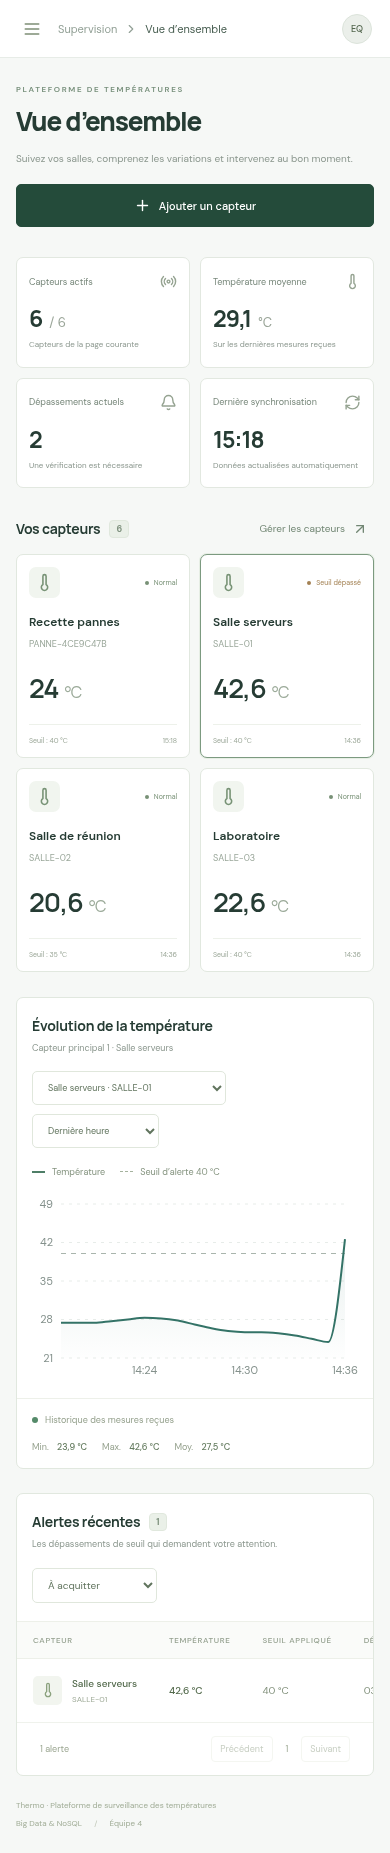
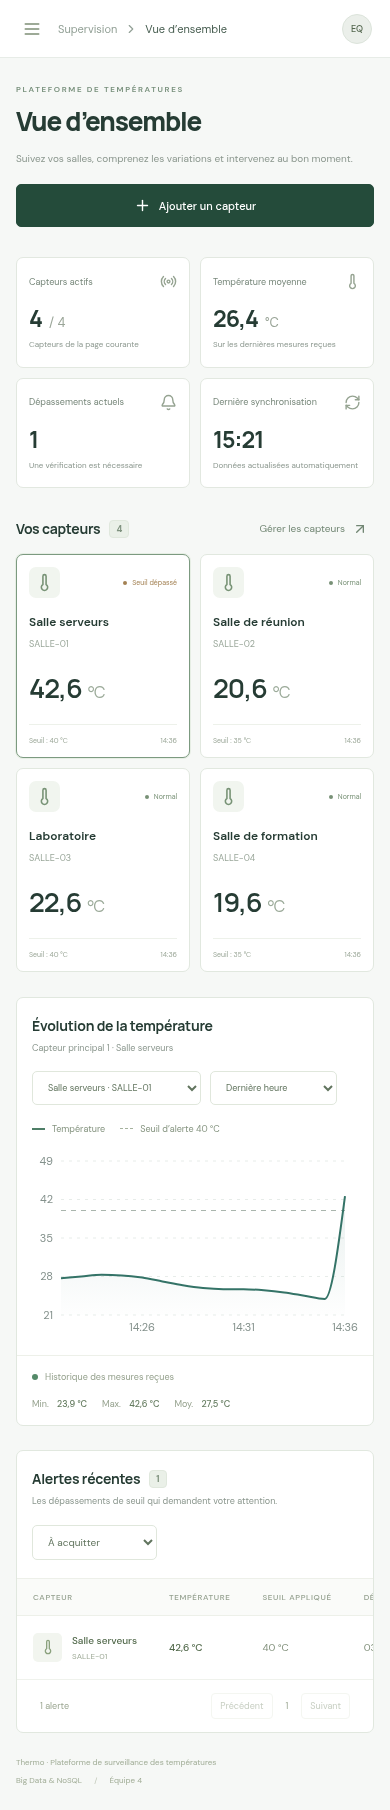
fix(infra): compatibilité MongoDB avec les noyaux récents des runners

diff --git a/docs/versions.md b/docs/versions.md
@@ -17,3 +17,9 @@ Images téléchargées et utilisées le 3 novembre 2026 ; digests issus des rés
 Java : 21. Spring Boot : 4.0.9 et dépendances gérées par son BOM. Maven Wrapper : 3.9.11. React : 19.2.0. Vite : 7.2.2. Newman : 6.2.1. Ansible collection community.docker : 4.8.1. Dépendances JavaScript exactes dans `frontend/package-lock.json`.
 
 Les digests applicatifs de publication sont produits par GHCR après validation ; les images applicatives locales ne constituent pas une publication GHCR.
+
+## Compatibilité du noyau MongoDB
+
+Le runner GitHub a rencontré l’erreur fatale MongoDB 12257600 sur son noyau récent. Le [ticket MongoDB officiel SERVER-136848](https://jira.mongodb.org/browse/SERVER-136848) décrit le contrôle de version des noyaux Ubuntu ; les [notes MongoDB](https://www.mongodb.com/docs/v8.0/release-notes/8.0/) décrivent l’incompatibilité TCMalloc/rseq.
+
+Les Compose définissent `GLIBC_TUNABLES=glibc.pthread.rseq=1` pour MongoDB. Ce réglage laisse glibc enregistrer rseq et empêche TCMalloc d’activer ses caches par CPU ; l’allocateur utilise ses caches par thread. Cette déduction suit le fonctionnement décrit par la [documentation officielle TCMalloc de MongoDB](https://www.mongodb.com/docs/manual/administration/tcmalloc-performance/) et le [suivi de l’image officielle](https://github.com/docker-library/mongo/issues/765). Le réglage doit être réévalué lors d’une mise à jour de MongoDB ou du noyau ; aucune performance de production n’est revendiquée.
